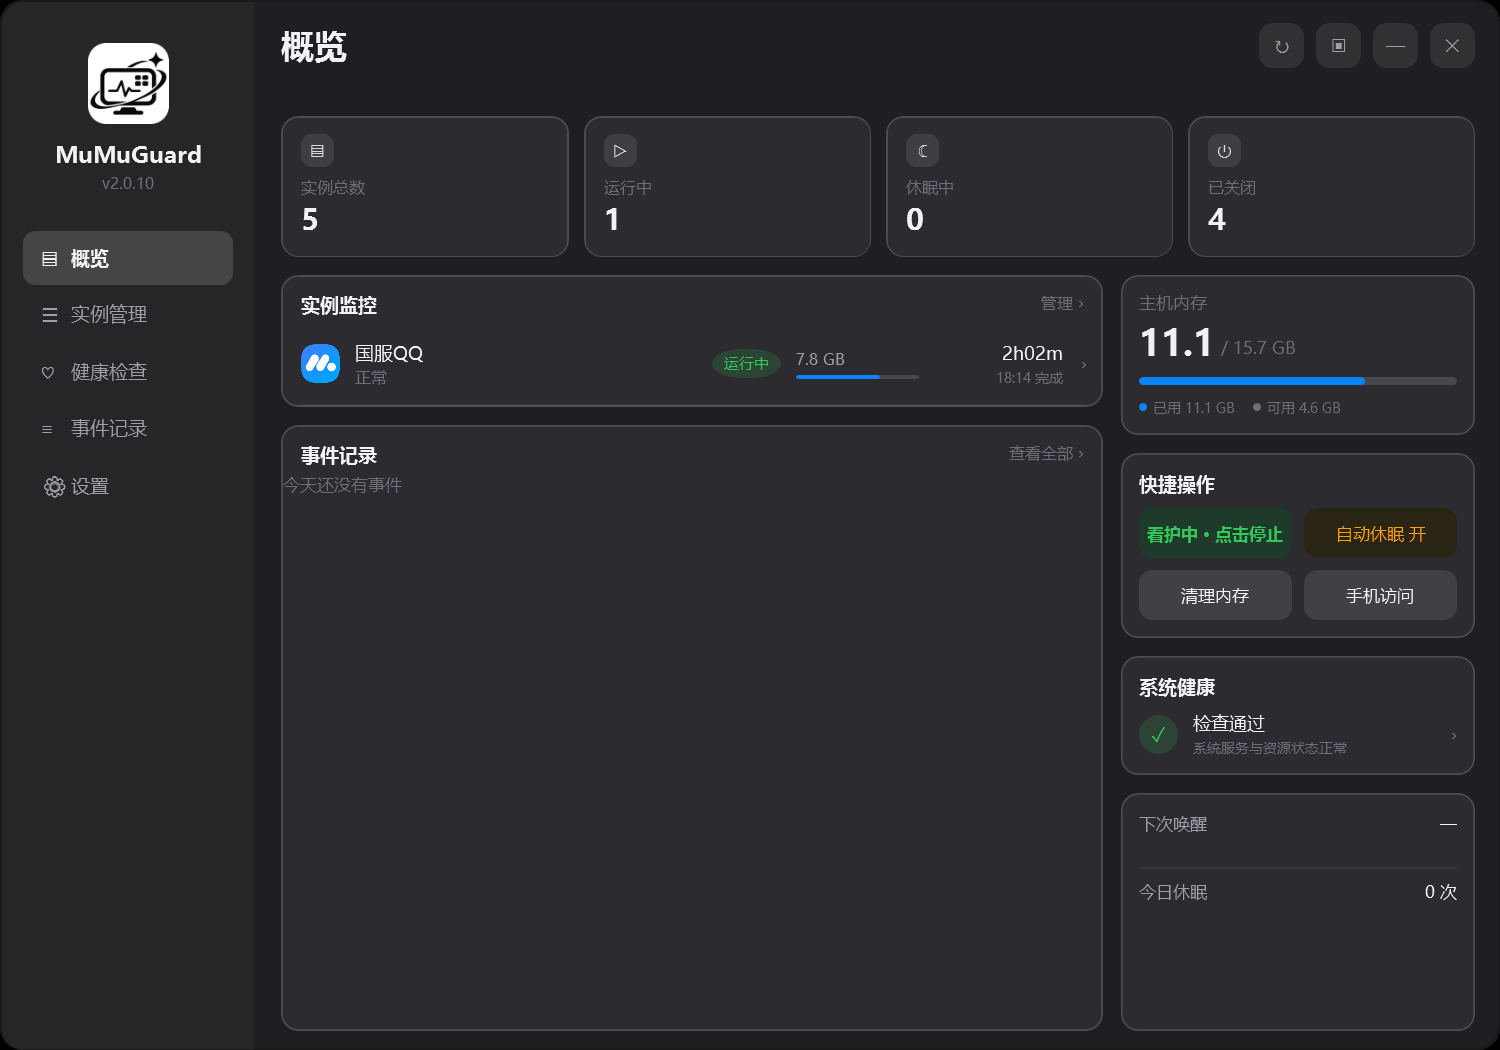
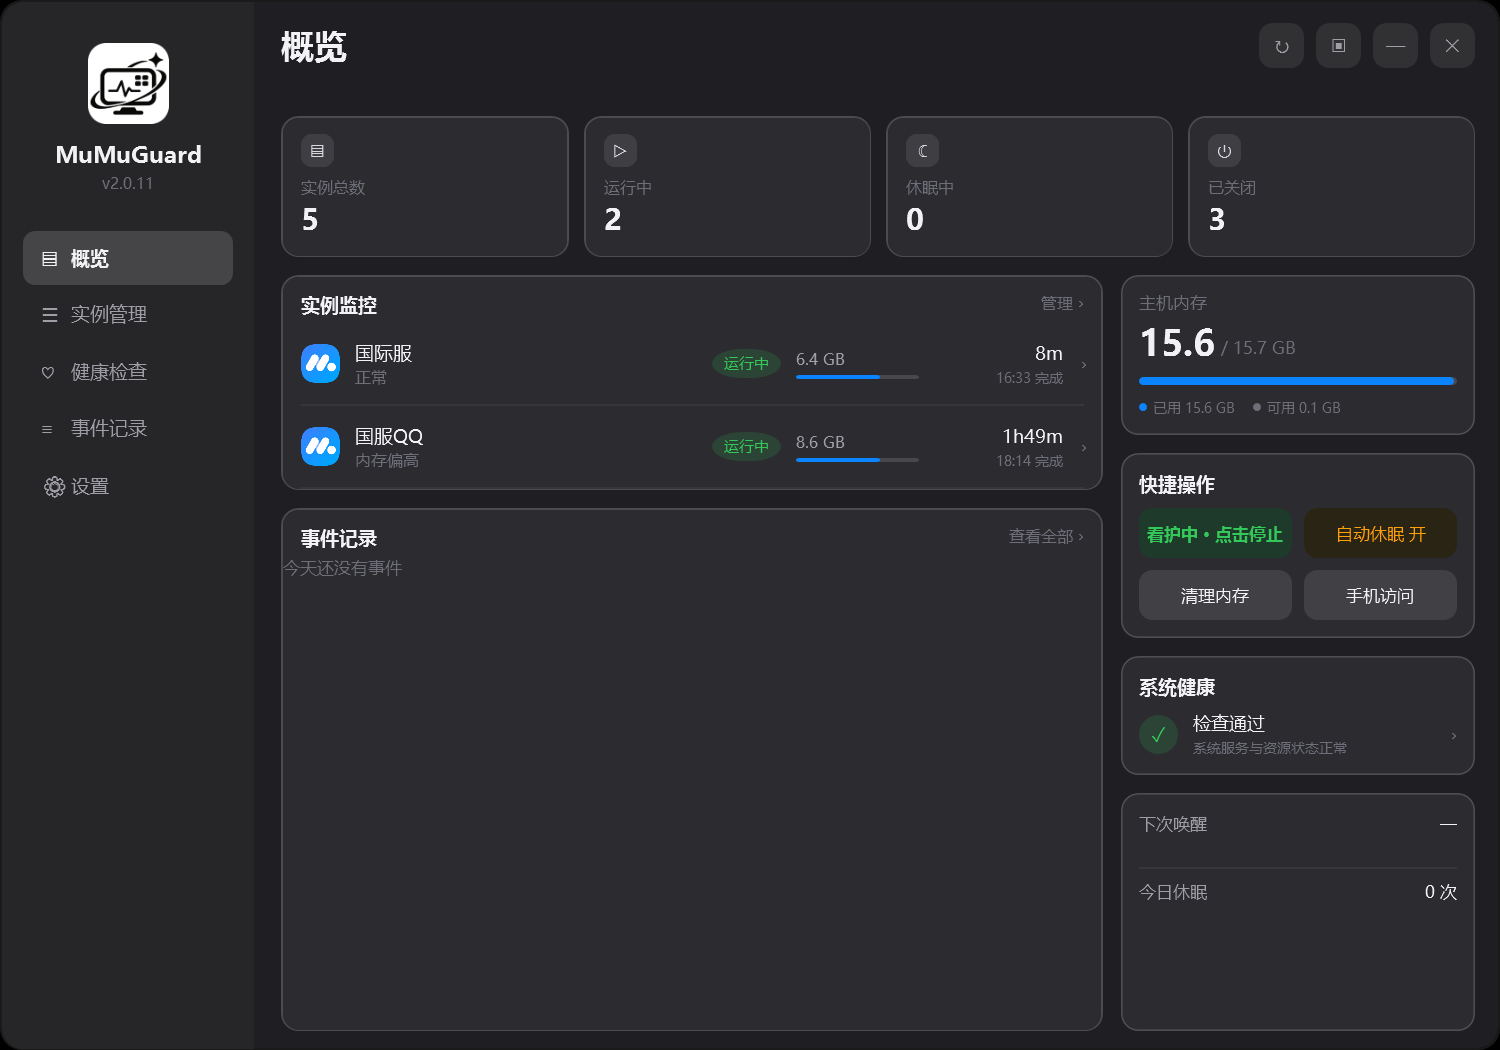
修复资源数字串行：两种语言 OCR 结果原来按数组下标合并，中英文各漏一行时会把上一行的数字顶到下一行（金币 9012712 被记成 10000000）。改用 OCR 词框的纵向中心对齐到实际资源行，只取行附近的识别结果；并把绿色 + 按钮中间的白色十字涂黑（它曾被认成数字，把 6395 读成 46.395）。生产分辨率 5 帧（主世界 2 + 夜世界 3）回归全过，主世界实时采样金币与截图真值一致。版本升 2.0.11

diff --git a/README.md b/README.md
@@ -4,7 +4,7 @@
 
 盯着每个实例，掉线自动拉起，等升级时休眠省内存，醒来自动接着跑。
 
-![版本](https://img.shields.io/badge/version-2.0.10-3DDC84)
+![版本](https://img.shields.io/badge/version-2.0.11-3DDC84)
 ![平台](https://img.shields.io/badge/platform-Windows%2010%20%7C%2011-0A0D14)
 ![许可](https://img.shields.io/badge/license-MIT-blue)
 ![QQ 群](https://img.shields.io/badge/QQ%E7%BE%A4-1128379535-12B7F5)
